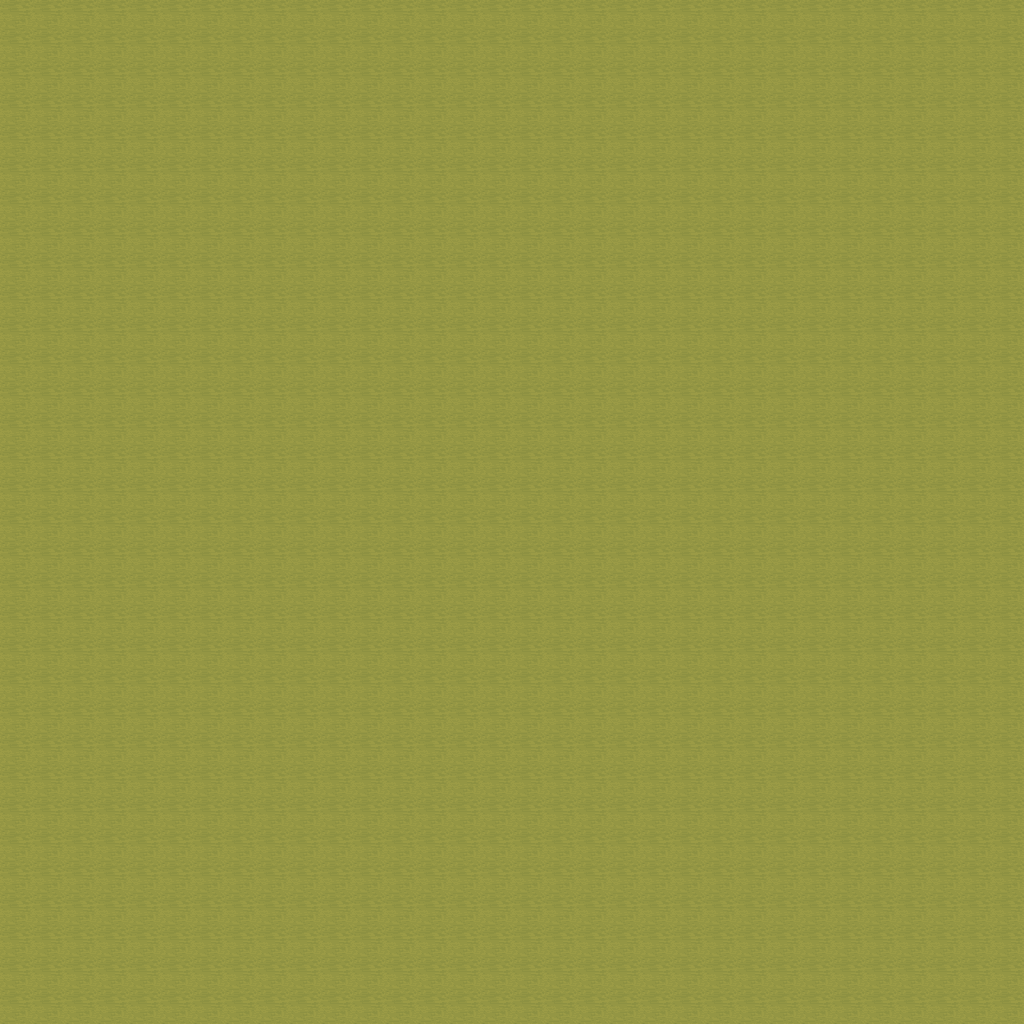
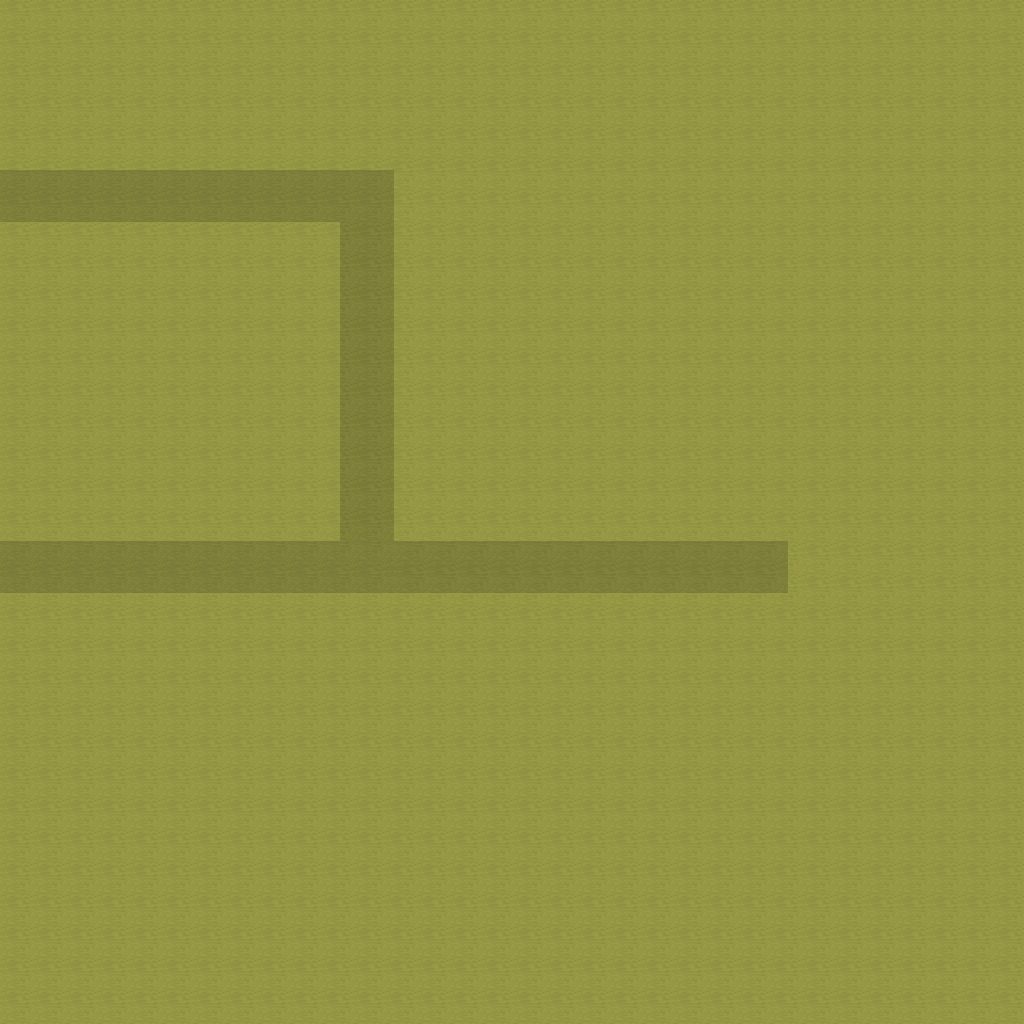
level 1 work

Changed region(s): [[0.0, 0.5312, 0.7812, 0.5938]]

diff --git a/angels-destiny-rpg/fantasy/Game.java b/angels-destiny-rpg/fantasy/Game.java
@@ -141,7 +141,7 @@ public class Game extends JPanel implements ActionListener {
         timer = new Timer(40, this);
         timer.start();
 
-	loadlevel1002();
+	loadlevel1000();
 
 
 	//delete, for starting battle mode
